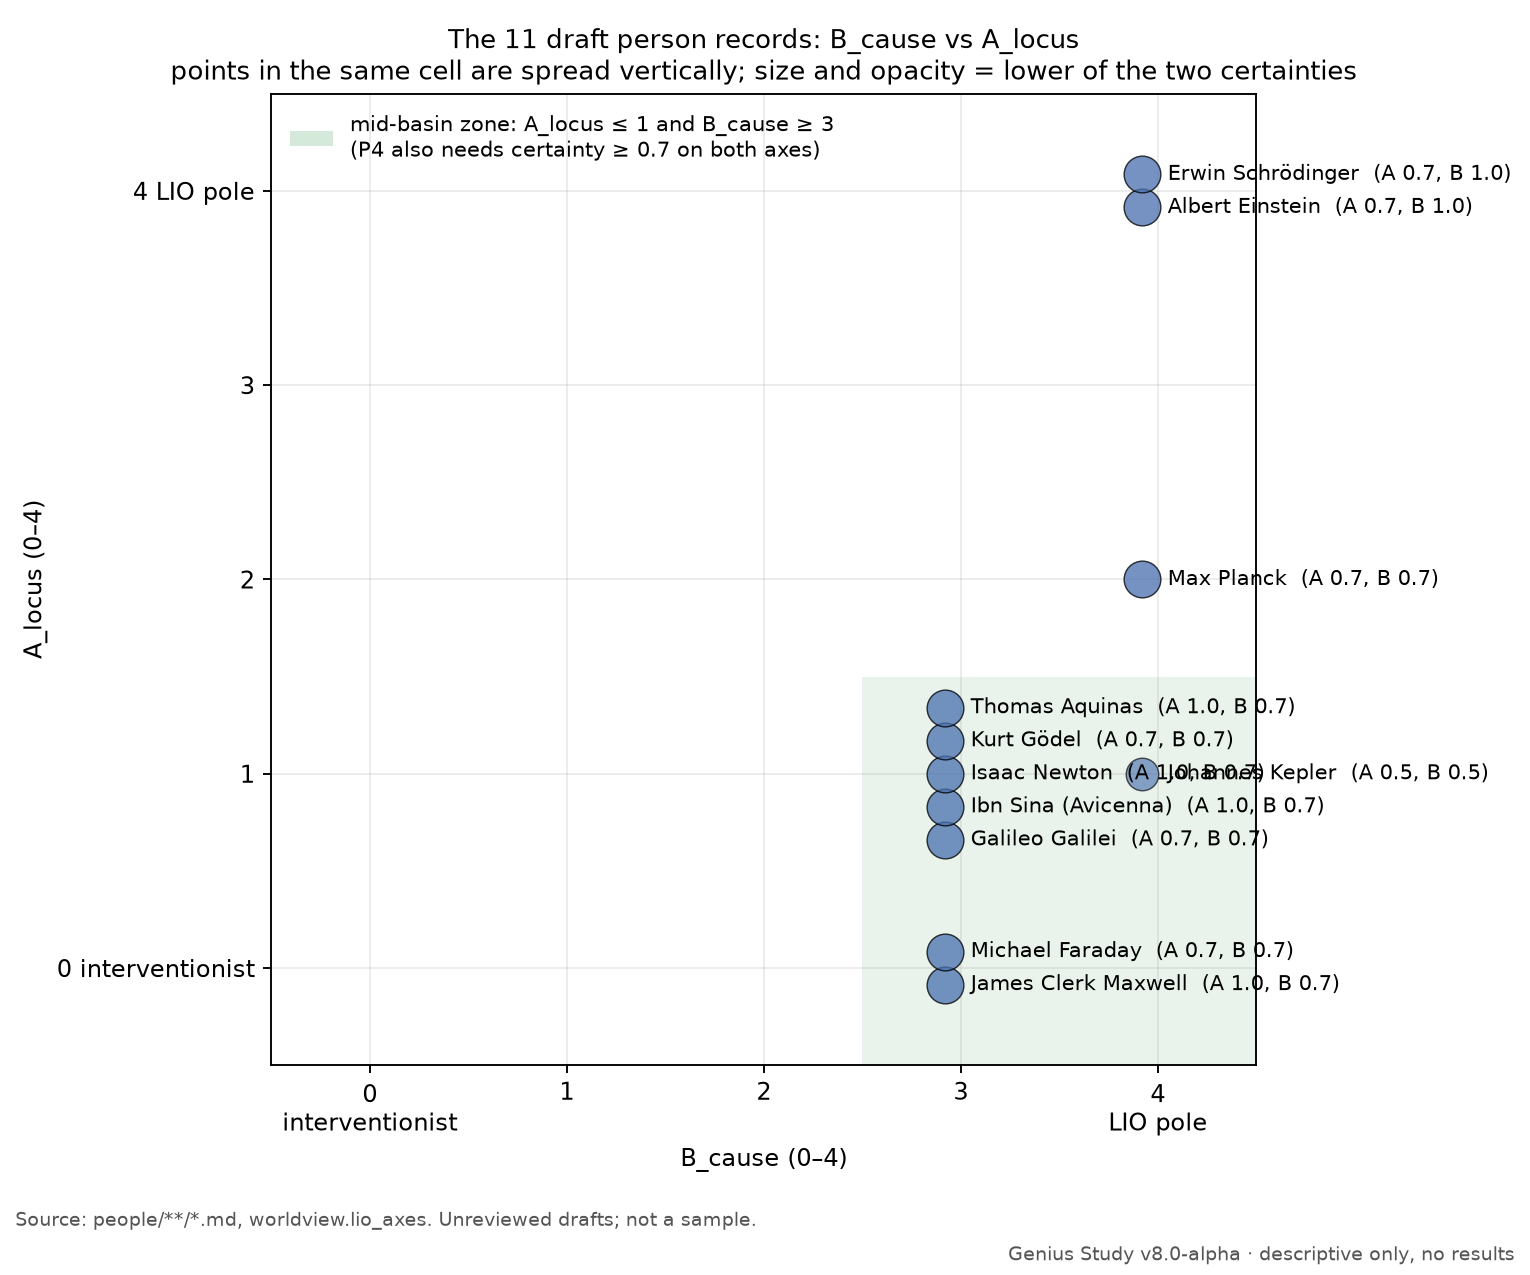
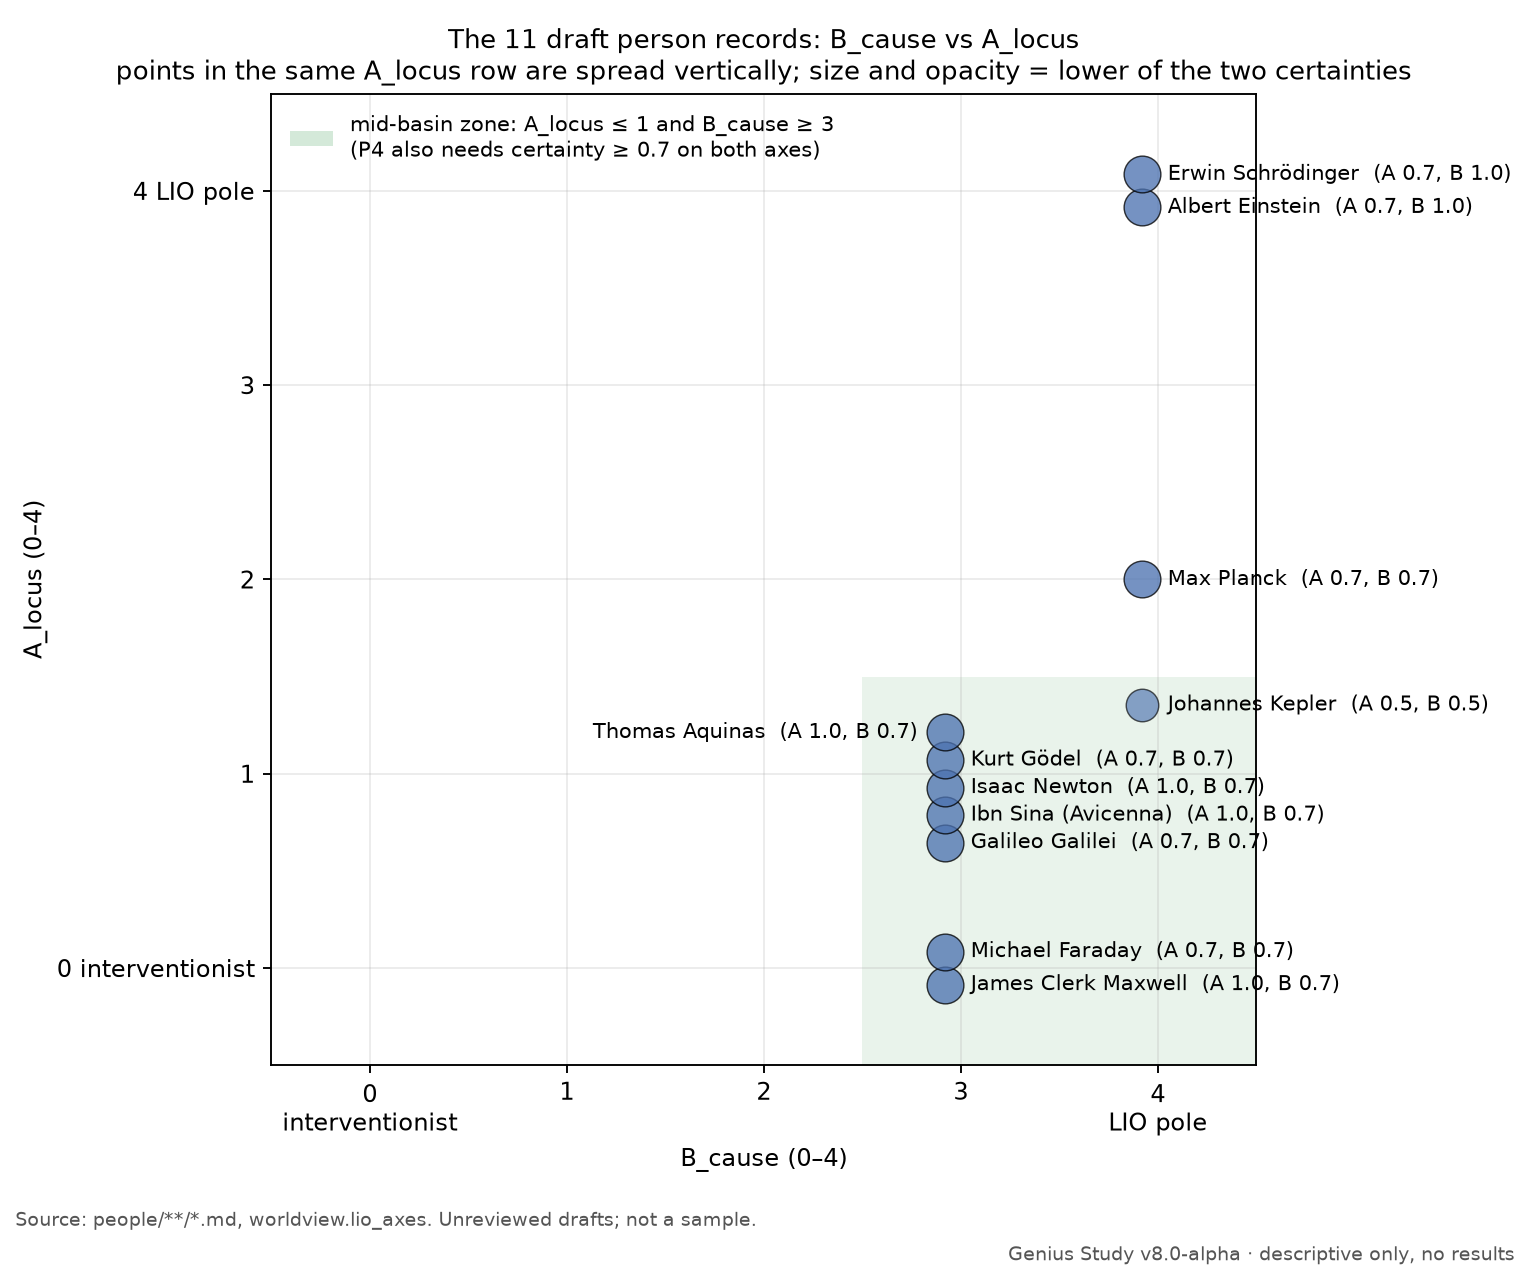
make_figures: one vertical slot per A_locus row and a drawn-box overlap check for people_cause_locus labels

Changed region(s): [[0.3993, 0.52, 0.9523, 0.6729], [0.0922, 0.0306, 0.9216, 0.0612]]

diff --git a/scripts/make_figures.py b/scripts/make_figures.py
@@ -21,6 +21,7 @@ import matplotlib
 matplotlib.use("Agg")
 import matplotlib.pyplot as plt  # noqa: E402
 from matplotlib.patches import Rectangle  # noqa: E402
+from matplotlib.transforms import Bbox  # noqa: E402
 
 sys.path.insert(0, os.path.dirname(os.path.abspath(__file__)))
 from lib.records import REPO, read_record, read_csv, person_files  # noqa: E402
@@ -156,17 +157,26 @@ def fig_people_cause_locus(out):
     zone = Rectangle((0, 0), 1, 1, color="#55A868", alpha=0.25, lw=0)
     ax.legend([zone], ["mid-basin zone: A_locus ≤ 1 and B_cause ≥ 3\n(P4 also needs certainty ≥ 0.7 on both axes)"],
               loc="upper left", fontsize=9, frameon=False)
-    groups = collections.defaultdict(list)
-    for p in sorted(pts):
-        groups[(p[1], p[2])].append(p)
-    for (bx, ay), ps in groups.items():
+    # Labels run to the right of their point, so a label can collide with anything in
+    # the same A_locus row: its own cell or a cell to its right. Every point in a row
+    # gets its own vertical slot. After layout, each label is checked against every
+    # other label and every other marker; a label that still touches one is moved to
+    # the left of its point. If anything still overlaps, the script stops.
+    rows = collections.defaultdict(list)
+    for p in sorted(pts, key=lambda p: (p[2], p[1], p[0])):
+        rows[p[2]].append(p)
+    items = []  # (text, x, y, marker size in points^2)
+    for ay, ps in rows.items():
         n = len(ps)
+        step = min(0.17, 0.85 / n)
         for i, (name, b, a, ca, cb, mb) in enumerate(ps):
-            dy = (i - (n - 1) / 2) * 0.17
+            y = ay + (i - (n - 1) / 2) * step
             c = min(ca, cb)
-            ax.scatter(bx - 0.08, ay + dy, s=60 + 260 * c, color="#4C72B0", alpha=0.35 + 0.6 * c,
+            size = 60 + 260 * c
+            ax.scatter(b - 0.08, y, s=size, color="#4C72B0", alpha=0.35 + 0.6 * c,
                        edgecolor="black", lw=0.6, zorder=3)
-            ax.text(bx + 0.05, ay + dy, f"{name}  (A {ca}, B {cb})", va="center", fontsize=9, zorder=4)
+            t = ax.text(b + 0.05, y, f"{name}  (A {ca}, B {cb})", va="center", fontsize=9, zorder=4)
+            items.append((t, b, y, size))
     ax.set_xlim(-0.5, 4.5)
     ax.set_ylim(-0.5, 4.5)
     ax.set_xticks(range(5), ["0\ninterventionist", "1", "2", "3", "4\nLIO pole"])
@@ -175,10 +185,32 @@ def fig_people_cause_locus(out):
     ax.set_ylabel("A_locus (0–4)")
     ax.grid(alpha=0.25)
     ax.set_title(f"The {len(pts)} draft person records: B_cause vs A_locus\n"
-                 "points in the same cell are spread vertically; size and opacity = lower of the two certainties",
+                 "points in the same A_locus row are spread vertically; size and opacity = lower of the two certainties",
                  fontsize=11)
     footer(fig, "Source: people/**/*.md, worldview.lio_axes. Unreviewed drafts; not a sample.")
     fig.tight_layout(rect=(0, 0.06, 1, 1))
+    fig.canvas.draw()
+    r = fig.canvas.get_renderer()
+
+    def marker_box(b, y, size):
+        cx, cy = ax.transData.transform((b - 0.08, y))
+        half = (size ** 0.5) / 2 * fig.dpi / 72
+        return Bbox.from_extents(cx - half, cy - half, cx + half, cy + half)
+
+    def clashes(k):
+        bb = items[k][0].get_window_extent(r)
+        for j, (t2, b2, y2, s2) in enumerate(items):
+            if j != k and (bb.overlaps(t2.get_window_extent(r)) or bb.overlaps(marker_box(b2, y2, s2))):
+                return True
+        return False
+
+    for k, (t, b, y, size) in enumerate(items):
+        if clashes(k):
+            t.set_position((b - 0.22, y))
+            t.set_ha("right")
+    bad = [items[k][0].get_text() for k in range(len(items)) if clashes(k)]
+    if bad:
+        raise SystemExit(f"people_cause_locus: labels still overlap: {bad}")
     save(fig, out, "people_cause_locus.png")
 
 
